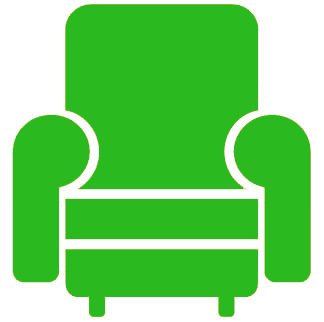
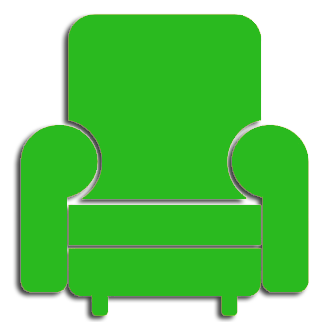
Ajuste de Legenda

Changed region(s): [[0.0309, 0.0, 0.9568, 1.0]]

diff --git a/Reserva Cinema/_CSS/body.css b/Reserva Cinema/_CSS/body.css
@@ -2,11 +2,6 @@ body {
     background-color: #343434;
 }
 
-h1 {
-    font-family: Comic Sans MS;
-    color: white;
-}
-
 .program {
     font-family: Comic Sans MS;
     color: white;
@@ -14,117 +9,17 @@ h1 {
     font-size: 50px;
 }
 
-.end {
-    font-family: Comic Sans MS;
+.foto-legenda {
+    max-width: 50%;
+    max-height: 50%;
+}
+
+p {
     color: white;
-    margin-left: 25px;
-    font-size: 10px;
+    font-size: 15pt;
 }
 
-.img-border {
-    border: 3px solid white;
-    box-shadow: 15px 15px 15px black;
-}
-
-figure.foto-legenda figcaption {
-    opacity: 0;
-    position: absolute;
-    top: 10px;
-    background-color: rgba(0, 0, 0, .4);
-    color: white;
-    width: 75%;
-    height: 96%;
-    padding: 5px;
-    box-sizing: border-box;
-    transition: opacity 1s;
-    margin-left: 10%;
-    margin-top: 0.001%;
-}
-
-figure.foto-legenda h1 {
-    text-indent: 0px;
-    text-align: center;
-    font-family: Dungeon;
-    font-size: 25pt;
-    margin-top: 0.01%;
-}
-
-figure.foto-legenda p {
-    margin-left: 10px;
-    text-indent: 1px;
-    text-align: left;
-    font-family: Dungeon;
-    font-size: 20pt;
-}
-
-figure.foto-legenda:hover figcaption {
-    opacity: 1;
-}
-
-figure.foto-legenda a:hover {
-    color: white;
-    transition: 1s;
-    text-decoration: none;
-    text-shadow: 3px 3px 3px rgba(0, 0, 0, .6);
-}
-
-.ParagrafoFotoLegenda {
-    margin-top: 50px;
-}
-
-.LinkReserva {
-    font-size: 150%;
-    margin-top: 30%;
-}
-
-.legenda {
-    color: white;
-    font-size: 25pt;
-}
-
-@media screen and (max-width: 500px) {
-    figure.foto-legenda figcaption {
-        opacity: 0;
-        position: absolute;
-        top: 10px;
-        background-color: rgba(0, 0, 0, .4);
-        color: white;
-        width: 70%;
-        height: 90%;
-        padding: 5px;
-        box-sizing: border-box;
-        transition: opacity 1s;
-        margin-left: 10%;
-        margin-top: 0.001%;
-    }
-    figure.foto-legenda h1 {
-        text-indent: 0px;
-        text-align: center;
-        font-family: Dungeon;
-        font-size: 15pt;
-        margin-top: 0.01%;
-    }
-    figure.foto-legenda p {
-        margin-left: 10px;
-        text-indent: 1px;
-        text-align: left;
-        font-family: Dungeon;
-        font-size: 10pt;
-    }
-    figure.foto-legenda:hover figcaption {
-        opacity: 1;
-    }
-    figure.foto-legenda a:hover {
-        color: white;
-        transition: 1s;
-        text-decoration: none;
-        text-shadow: 3px 3px 3px rgba(0, 0, 0, .6);
-    }
-    .ParagrafoFotoLegenda {
-        margin-top: 20px;
-    }
-    .LinkReserva {
-        font-size: 100%;
-        margin-top: 500%;
-    }
+.deficiente-legenda {
+    max-width: 43%;
+    max-height: 43%;
 }

diff --git a/Reserva Cinema/reserva.html b/Reserva Cinema/reserva.html
@@ -23,19 +23,21 @@
     <br/>
     <center>
         <div class="row">
-            <div class="col-xs-12">
-                <div class="col-md-6">
-                    <figure>
-                        <img src="_Imagens/PoltronaLivre.png" class="img-responsive" name="PoltronaLivreLegenda" />
-                        <figcaption class="legenda">Disponível</figcaption>
-                    </figure>
-                </div>
-                <div class="col-md-6">
-                    <figure>
-                        <img src="_Imagens/PoltronaOcupada.png" class="img-responsive" name="PoltronaOcupadaLegenda" />
-                        <figcaption class="legenda">Reservada</figcaption>
-                    </figure>
-                </div>
+            <div class="col-md-3">
+                <img src="_Imagens/PoltronaLivre.png" class="img-responsive foto-legenda" name="PoltronaLivreLegenda" />
+                <p>Disponível</p>
+            </div>
+            <div class="col-md-3">
+                <img src="_Imagens/PoltronaEscolhida.png" class="img-responsive foto-legenda" name="PoltronaLivreLegenda" />
+                <p>Escolhida</p>
+            </div>
+            <div class="col-md-3">
+                <img src="_Imagens/PoltronaOcupada.png" class="img-responsive foto-legenda" name="PoltronaLivreLegenda" />
+                <p>Ocupada</p>
+            </div>
+            <div class="col-md-3">
+                <img src="_Imagens/DeficienteB.png" class="img-responsive deficiente-legenda" name="PoltronaLivreLegenda" />
+                <p>Preferencial</p>
             </div>
         </div>
     </center>
@@ -199,10 +201,10 @@
                     <img src="_Imagens/PoltronaLivre.png " class="img-responsive" name="PoltronaLivre" id="Poltrona06Fileira5" onclick="VerificarPoltronas(name, id);" />
                 </div>
                 <div class="col-md-1 ">
-                    <img src="_Imagens/PoltronaLivre.png " class="img-responsive" name="PoltronaLivre" id="Poltrona07Fileira5" onclick="VerificarPoltronas(name, id);" />
+                    <img src="_Imagens/PoltronaLivrePreferencial.png " class="img-responsive" name="PoltronaLivre" id="Poltrona07Fileira5" onclick="VerificarPoltronas(name, id);" />
                 </div>
                 <div class="col-md-1 ">
-                    <img src="_Imagens/PoltronaLivre.png " class="img-responsive" name="PoltronaLivre" id="Poltrona08Fileira5" onclick="VerificarPoltronas(name, id);" />
+                    <img src="_Imagens/PoltronaLivrePreferencial.png " class="img-responsive" name="PoltronaLivre" id="Poltrona08Fileira5" onclick="VerificarPoltronas(name, id);" />
                 </div>
             </div>
         </div>
